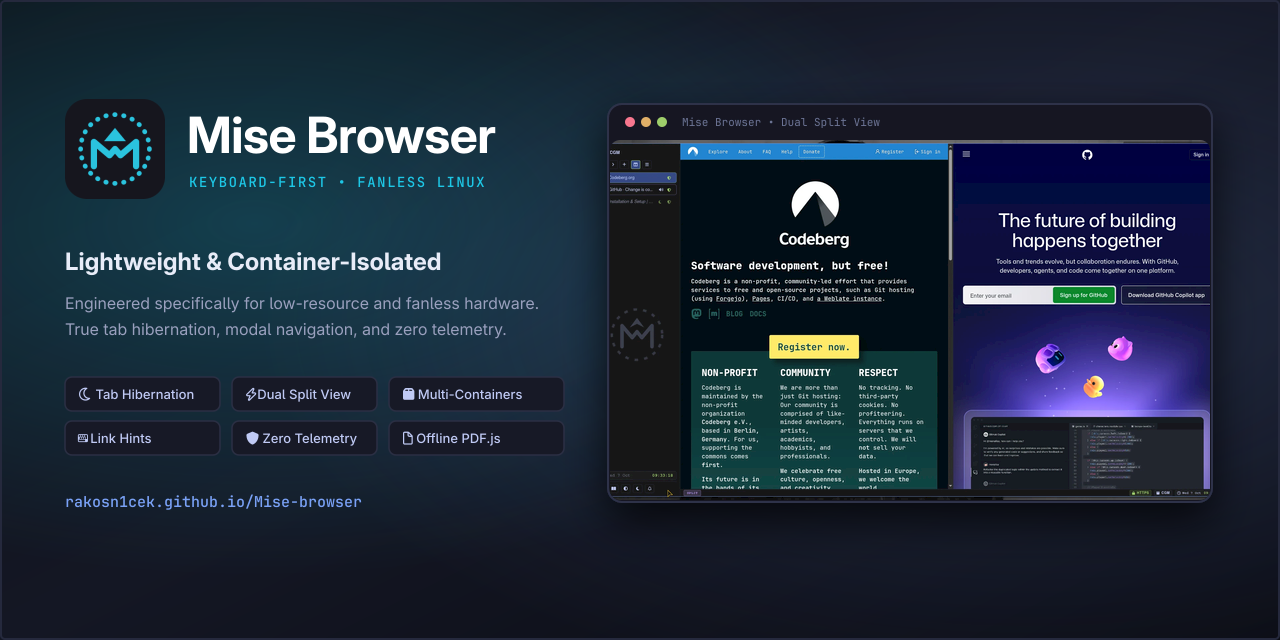
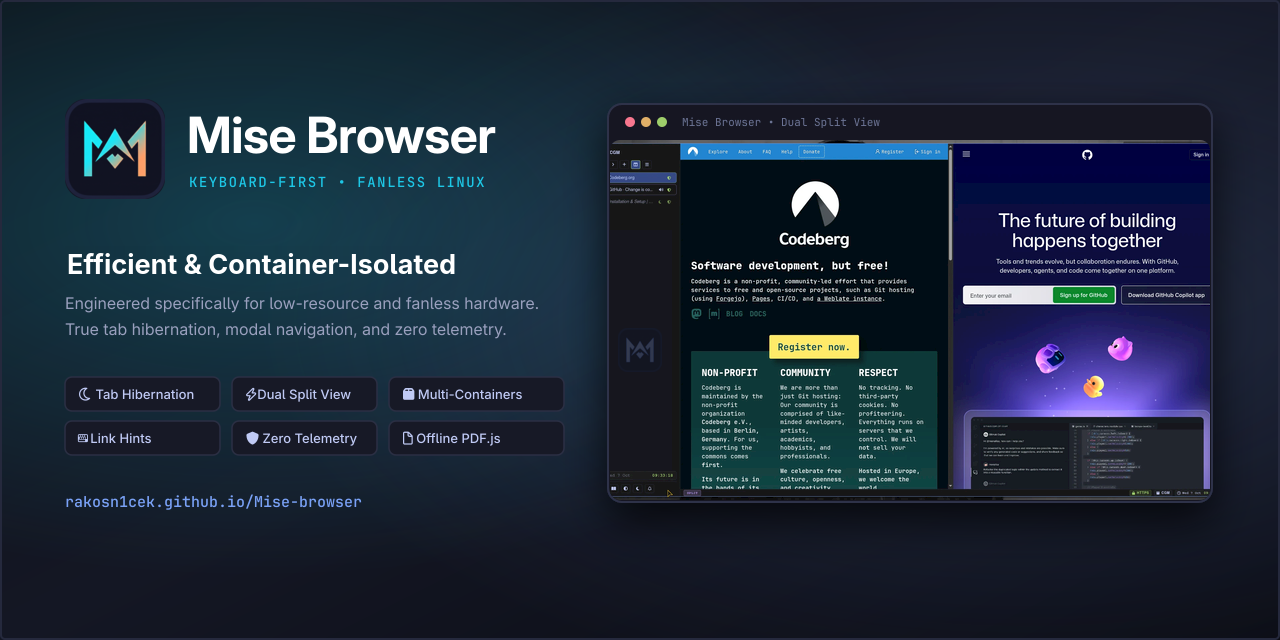
docs: standardise terminology to efficient and update opengraph social card

Changed region(s): [[0.0312, 0.375, 0.375, 0.4375], [0.0625, 0.1562, 0.125, 0.3125], [0.4688, 0.5, 0.5312, 0.5625]]

diff --git a/docs/blog/tab-traversal-awakening-cascade.md b/docs/blog/tab-traversal-awakening-cascade.md
@@ -61,7 +61,7 @@ if (e.key === 'ArrowDown' || e.key === 'j') {
 }
 ```
 
-In Google Chrome or Mozilla Firefox, tabs either stay resident in memory or use lightweight internal discarded states where changing tabs has minimal immediate cost.
+In Google Chrome or Mozilla Firefox, tabs either stay resident in memory or use lean internal discarded states where changing tabs has minimal immediate cost.
 
 In Mise, however, `switchTabFocus(idx)` carries a heavy architectural consequence:
 
@@ -127,7 +127,7 @@ To make the state transition unmistakable, we introduced distinct visual styling
     border-color: var(--accent);
 }
 
-/* Dashed accent outline: lightweight keyboard cursor */
+/* Dashed accent outline: efficient keyboard cursor */
 #TabList li:focus:not(.selected) {
     border-color: var(--accent);
     background-color: rgba(122, 162, 247, 0.16);

diff --git a/docs/guide/community-scripts.md b/docs/guide/community-scripts.md
@@ -1,6 +1,6 @@
 # Community Scripts & Styles
 
-A curated catalogue of lightweight user styles (`*.user.css`) and user scripts (`*.user.js`) tested specifically for Mise Browser.
+A curated catalogue of efficient user styles (`*.user.css`) and user scripts (`*.user.js`) tested specifically for Mise Browser.
 
 All scripts and styles are maintained in the official **[Mise-community-scripts](https://github.com/Rakosn1cek/Mise-community-scripts)** repository.
 

diff --git a/docs/blog/dark-reader-navigation-persistence.md b/docs/blog/dark-reader-navigation-persistence.md
@@ -102,7 +102,7 @@ export async function setWebviewDarkReader(wv, enable) {
 
 If the key existed (`wv.__miseDarkKey`), the tab was considered dark. If the key was null, the tab was considered light.
 
-It seemed fast, lightweight, and elegant.
+It seemed fast, efficient, and elegant.
 
 ---
 
